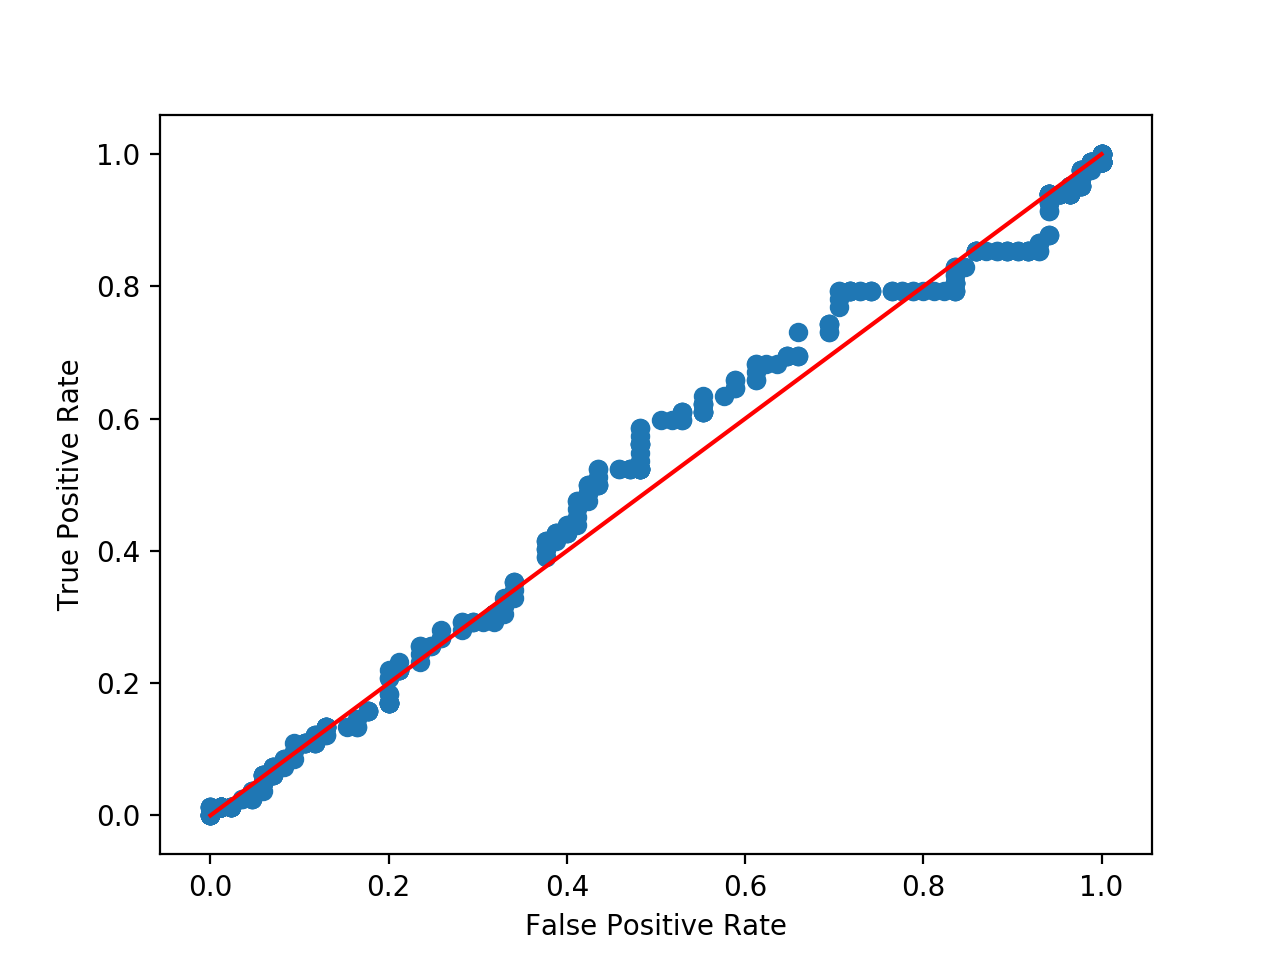
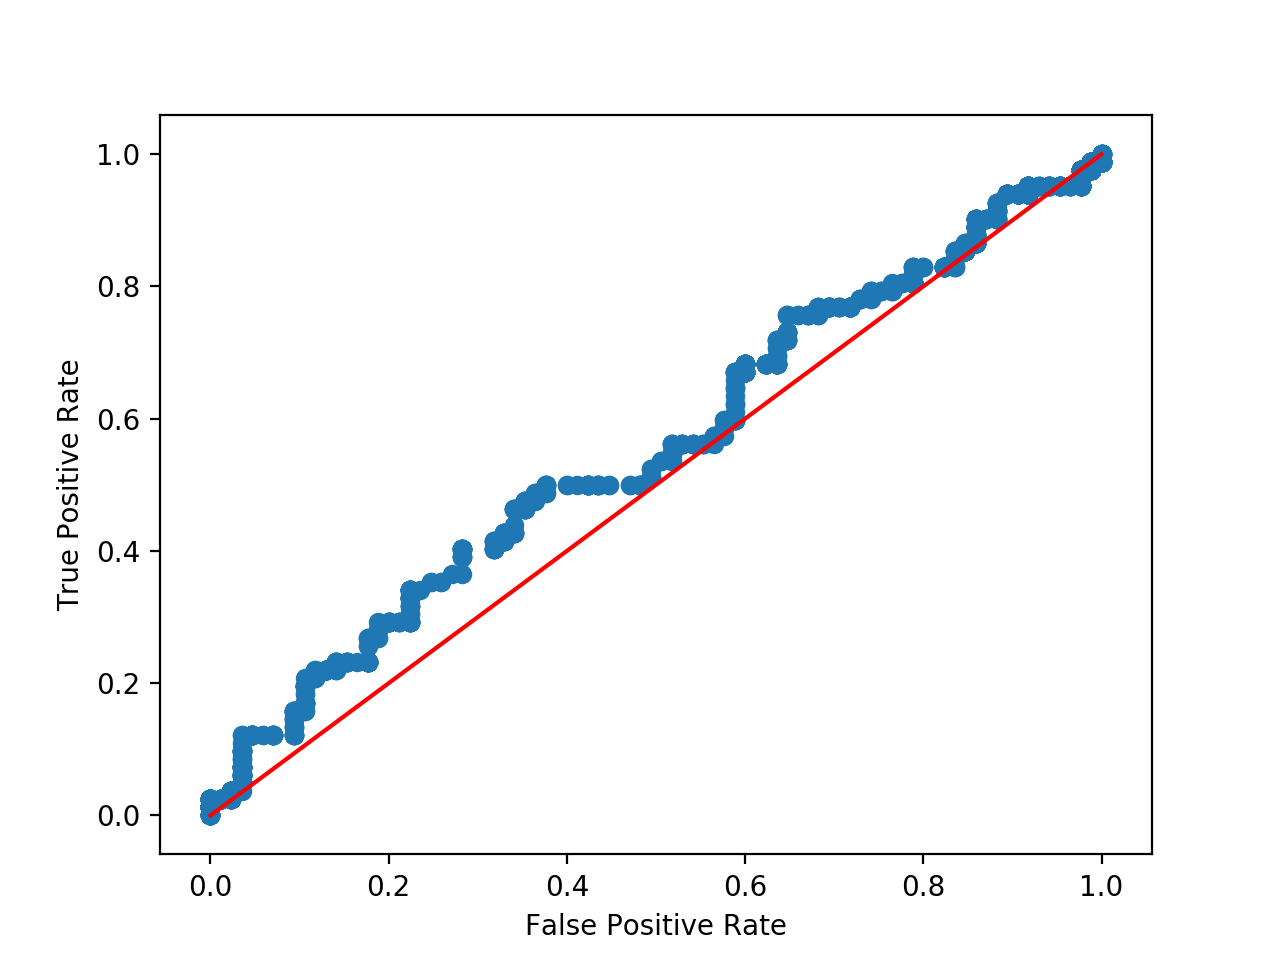
small changes

Changed region(s): [[0.1562, 0.1875, 0.8438, 0.875]]

diff --git a/src/nn_softmax_output.py b/src/nn_softmax_output.py
@@ -63,7 +63,7 @@ n_val, _ = x_val.shape
 
 # Hyperparameters
 learning_rate = 0.001
-training_epochs = 20000
+training_epochs = 5000
 
 # Arrays:
 W1_weights: np.ndarray
@@ -149,7 +149,9 @@ if plot_roc is True:
     a1_numeric = 1/(1+np.exp(-z1_numeric))
 
     z2_numeric = np.add(np.matmul(a1_numeric, W2_weights), b2_weights.T)
-    a2_numeric = 1/(1+np.exp(-z2_numeric))
+    #a2_numeric = 1/(1+np.exp(-z2_numeric))
+    a2_numeric = z2_numeric
+    a2_numeric[a2_numeric < 0] = 0
 
     z3_numeric = np.add(np.matmul(a2_numeric, W3_weights), b3_weights.T)
 
